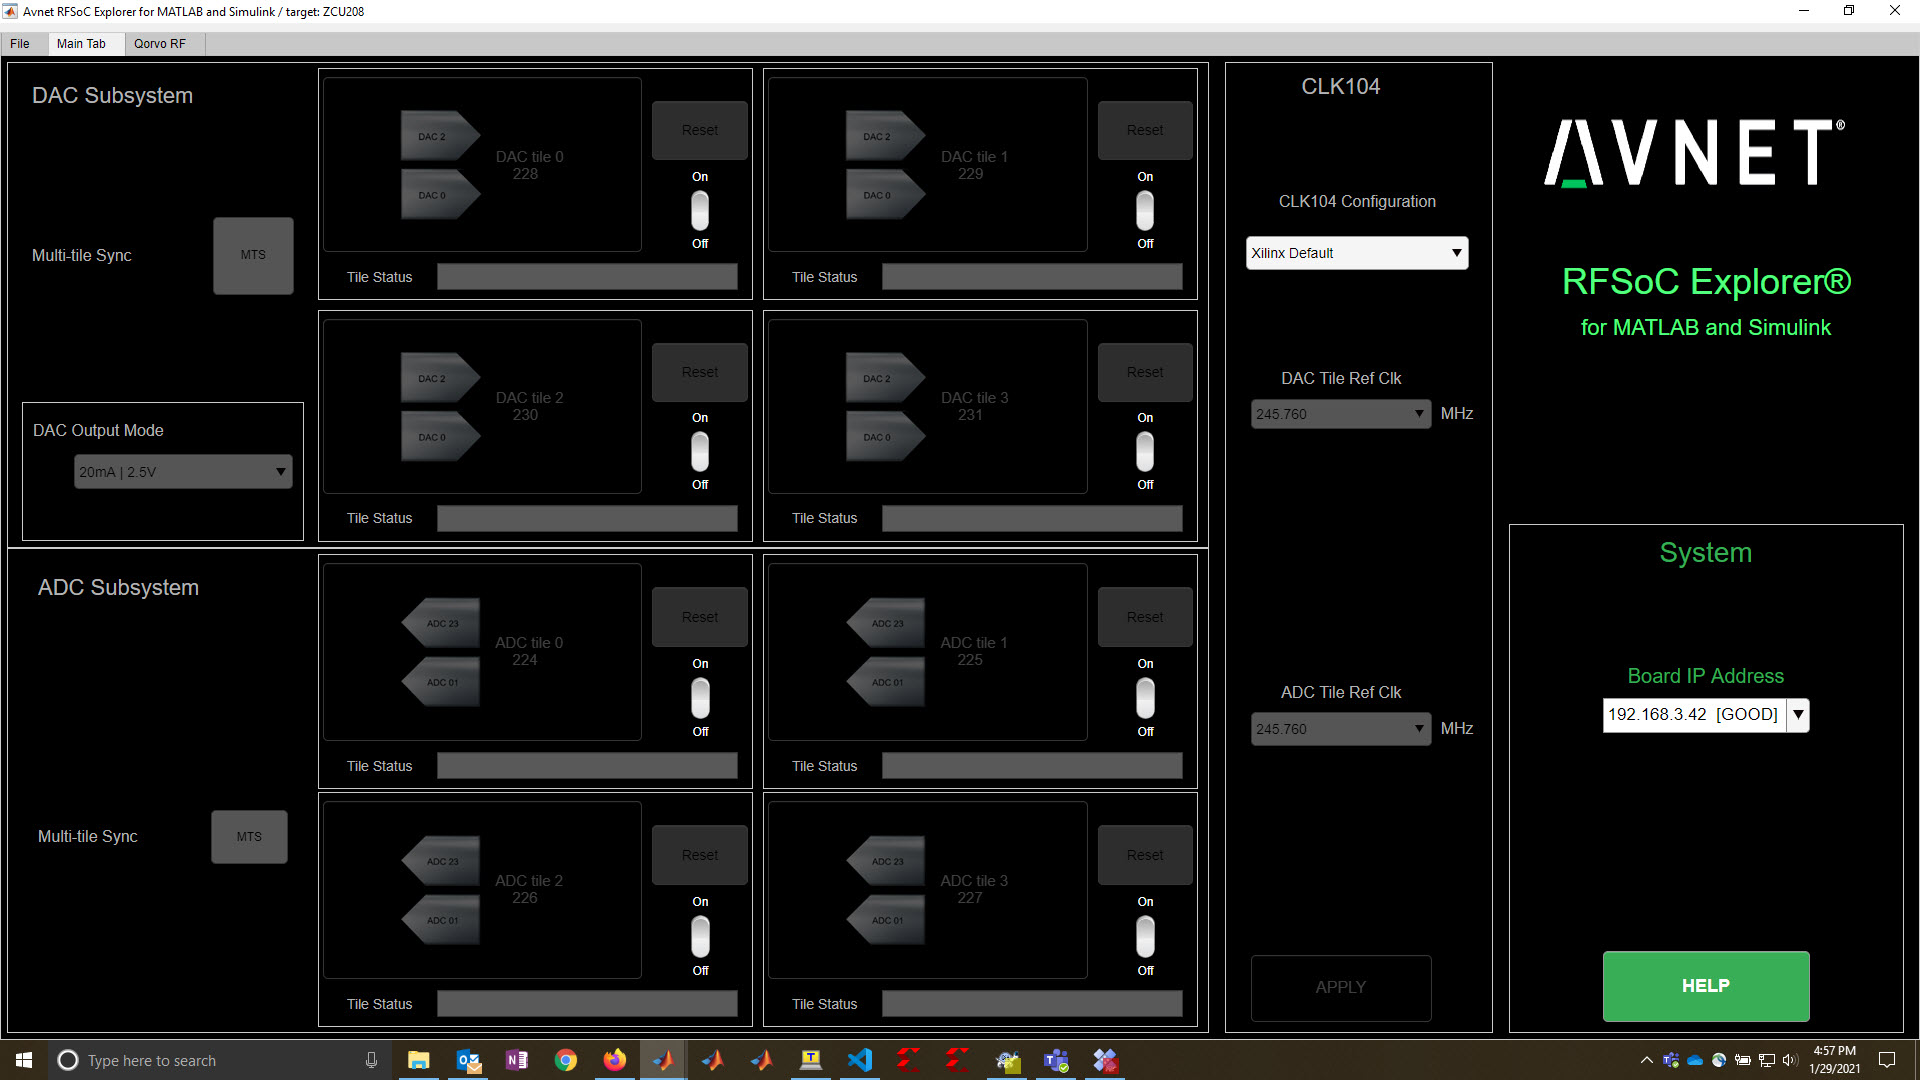
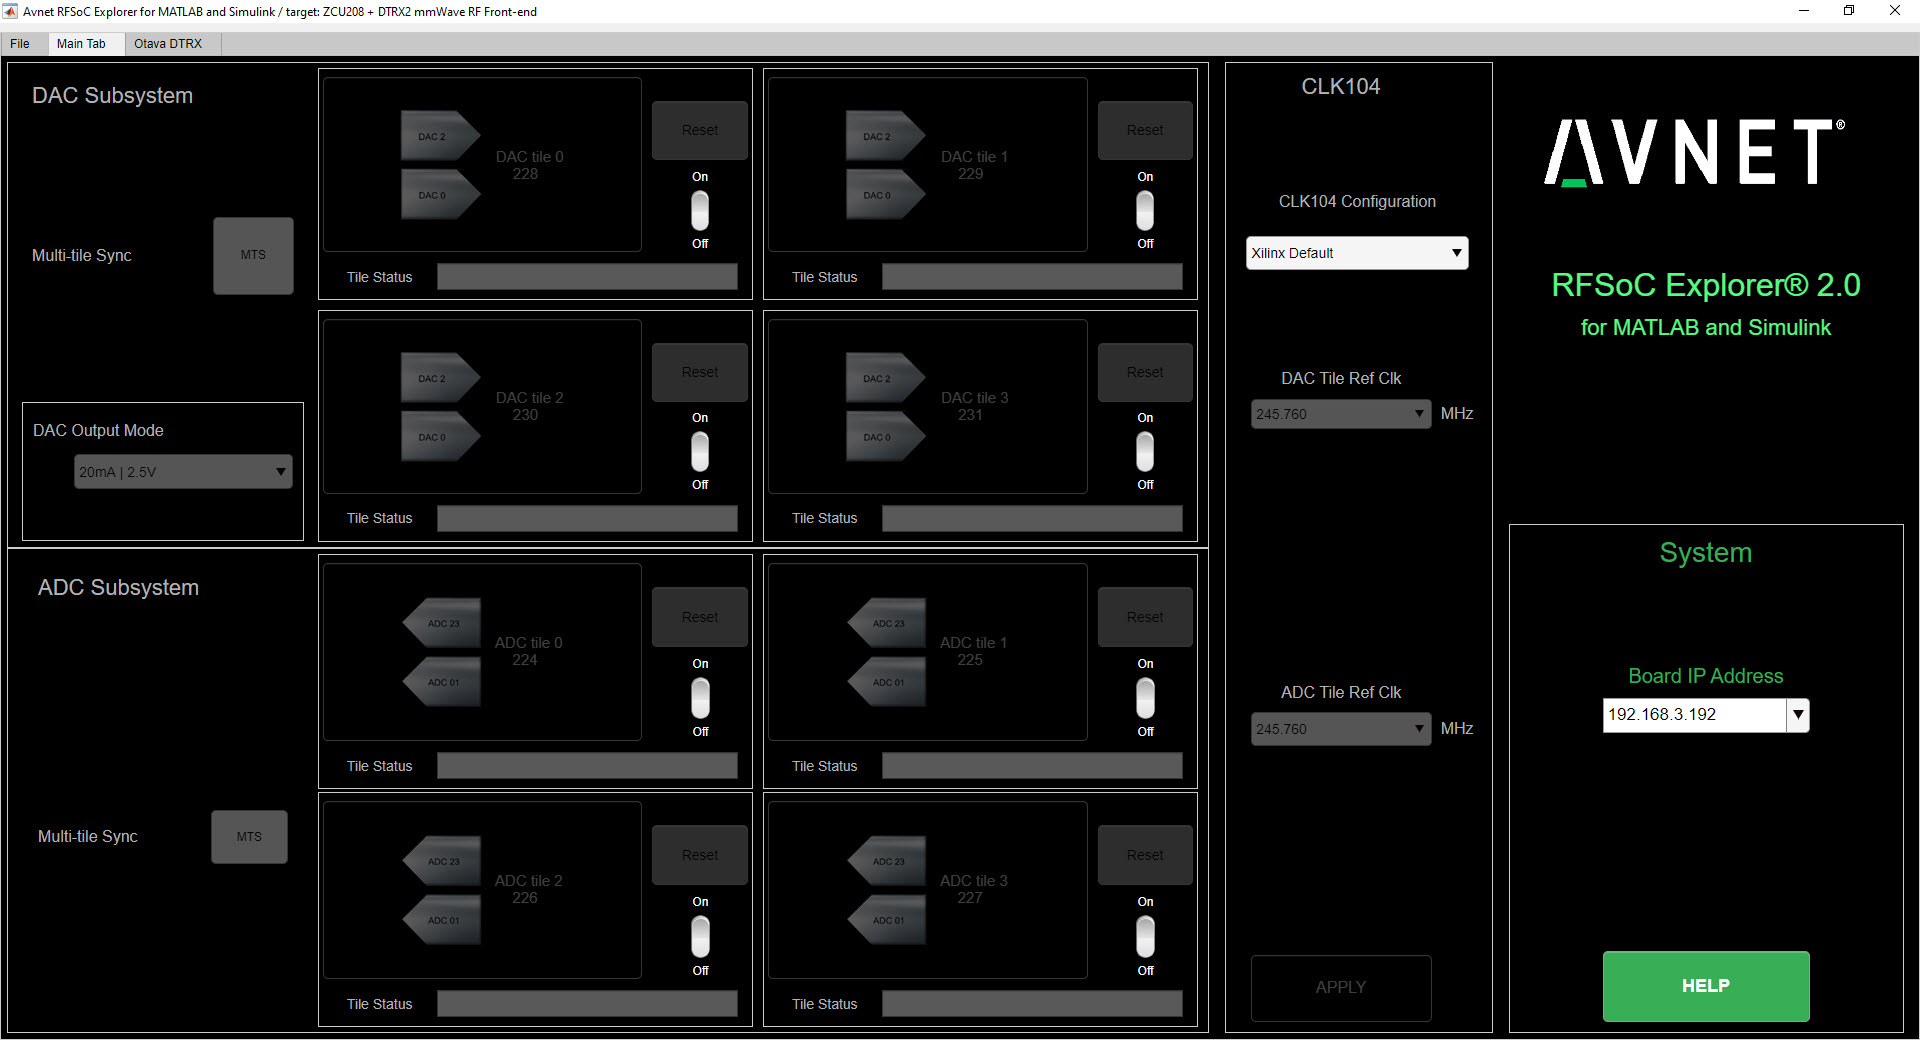
Update rfsocX IP address images

diff --git a/docs/source/system_setup.rst b/docs/source/system_setup.rst
@@ -179,13 +179,21 @@ Start RFSoC Explorer
 
 .. image:: images_system_setup/rfsocX_main_tab.jpg
 
-1. On the Main tab, under "System", enter the IP address of the ZCU208. The default addess is: **169.254.10.2**.
+1. On the Main tab, under "System", enter the IP address of the ZCU208. The default board addess is: **169.254.10.2**.
+
+.. note:: You may need to maximize the RFSoC Explorer window to reveal the IP Address dropdown
+
+If a successful TCP/IP connection is established with the board, the IP address turns from black to red, and the address is stored in the dropdown menu.
 
 .. image:: images_system_setup/rfsocX_ipaddress.jpg
     :scale: 75%
     :align: center
 
-.. note:: You may need to maximize the RFSoC Explorer window to reveal the IP Address dropdown
+If a TCP/IP connection cannot be established with the board, the app reports "DISCONNECTED" in red.
+
+.. image:: images_system_setup/rfsocX_ipaddress_disconnected.jpg
+    :scale: 75%
+    :align: center
 
 Configure System Reference Clocks
 ----------------------------------
